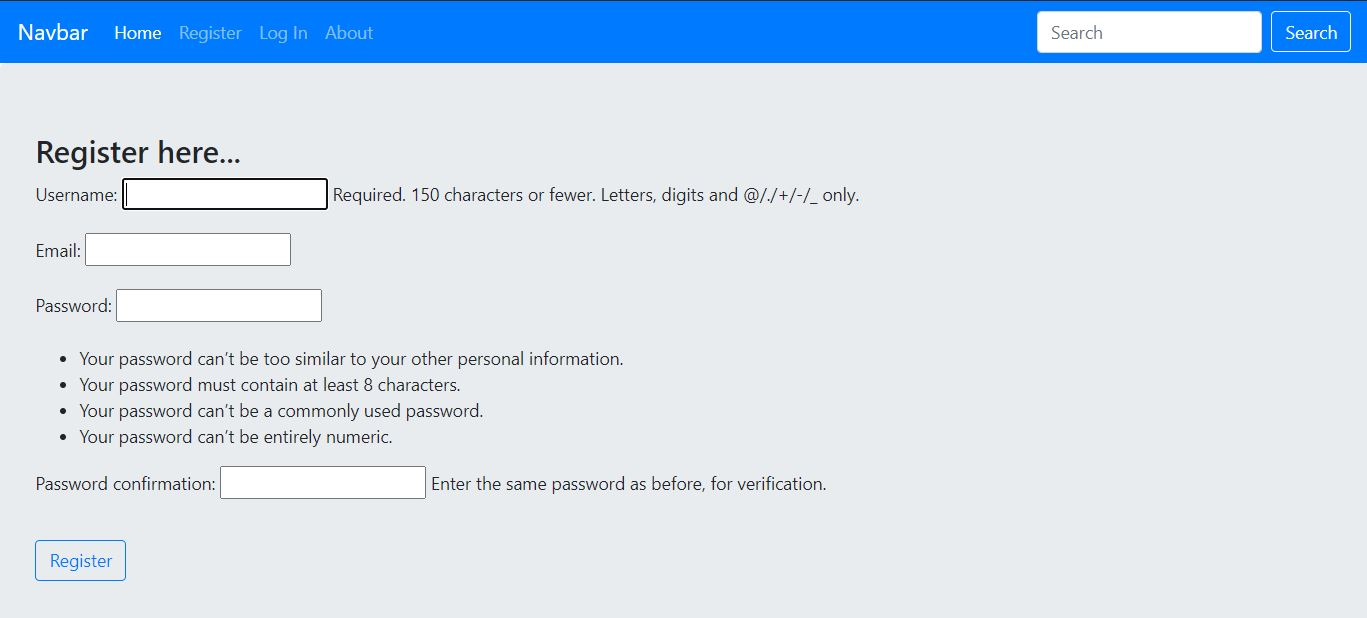
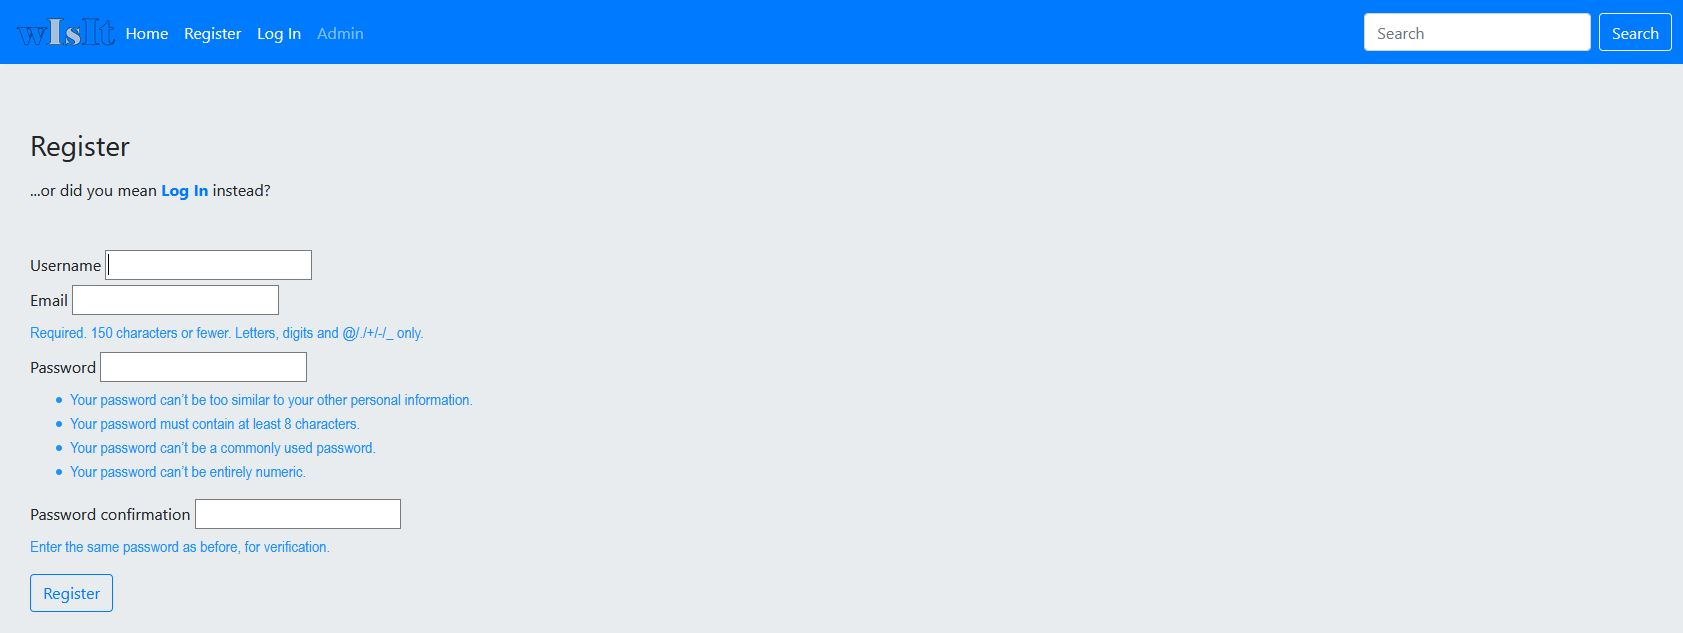
Updated Screenshots. Added some styling to templates.

diff --git a/whereisit_app/templates/whereisit_app/register.html b/whereisit_app/templates/whereisit_app/register.html
@@ -1,6 +1,8 @@
 {% extends "whereisit_app/base.html" %}
 {% block content %}
-    <h3 class="mb-3">Register here</h3>
+    <h3 class="mb-3">Register</h3>
+
+    <p class="mb-5">...or did you mean <a href="{% url 'login' %}"><strong>Log In</strong></a> instead?</p>
     <div>
         <form method="POST" action="">
             {% csrf_token %}
@@ -11,24 +13,24 @@
                         {{ form.username.errors }}
                         <label for="{{ form.username.id_for_label }}">Username</label>
                         {{ form.username }}
-                        {{ form.help_text }}
                     </div>
                     <div class="fieldWrapper">
                         {{ form.email.errors }}
                         <label for="{{ form.email.id_for_label }}">Email</label>
                         {{ form.email }}
+                        <div class="text-blue text-arialn mb-2">Required. 150 characters or fewer. Letters, digits and @/./+/-/_ only.</div>
                     </div>
                     <div class="fieldWrapper">
                         {{ form.password1.errors }}
                         <label for="{{ form.password1.id_for_label }}">Password</label>
                         {{ form.password1 }}<br>
-                        <div class="alert alert-primary">{{ form.password1.help_text }}</div>
+                        <div class="text-arialn text-blue">{{ form.password1.help_text }}</div>
                     </div>
                     <div>
                         {{ form.password2.errors }}
                         <label for="{{ form.password2.id_for_label }}">Password confirmation</label>
                         {{ form.password2 }}<br>
-                        <div class="alert alert-primary message-blue">{{ form.password2.help_text }}</div>
+                        <div class="text-arialn text-blue">{{ form.password2.help_text }}</div>
                     </div>
                 </fieldset>
             <button type="submit" class="btn btn-outline-primary">Register</button>

diff --git a/whereisit_app/templates/whereisit_app/profile.html b/whereisit_app/templates/whereisit_app/profile.html
@@ -1,19 +1,34 @@
 {% extends "whereisit_app/base.html" %}
 {% block content %}
-    <h4>Your profile</h4>
+    <h3>Your profile</h3>
 
     <div>
         <img class="rounded-circle account-img" width="128" height="128" src="{{ user.profile.image.url }}">
-        <h3>{{ user.username }}</h3>
-        <p>{{ user.email }}</p>
+        <div>Current Username:
+            <div class="text-blue">{{ user.username }}</div>
+        </div>
+        <div>Current Email: <div class="text-blue">{{ user.email }}</div>
+        </div>
     </div>
-
+    <h5 class="alert alert-info mt-5">Edit your information:</h5>
     <form method="POST" enctype="multipart/form-data">
         {% csrf_token %}
-        <h3>Profile info</h3>
+
         <fieldset class="form-group">
-            {{ u_form.as_p }}
-            {{ p_form.as_p }}
+{#            {{ u_form.as_p }}#}
+            {{ u_form.non_field_errors }}
+            <div class="fieldWrapper">
+                <label for="{{ u_form.username.id_for_label }}">Username</label>
+                {{ u_form.username }}<br>
+
+                <div class="text-blue text-arialn">{{ u_form.username.help_text }}</div>
+            </div>
+
+            <div class="mt-4">
+                {{ p_form.as_p }}
+            </div>
+
+
         </fieldset>
         <button type="submit" class="btn btn-outline-primary">Update</button>
     </form>

diff --git a/whereisit_app/templates/whereisit_app/item_form.html b/whereisit_app/templates/whereisit_app/item_form.html
@@ -1,11 +1,26 @@
 {% extends 'whereisit_app/base.html' %}
 {% block content %}
 
-    <h3>Adding new item:</h3>
+    <h3 class="mb-3">Adding new item</h3>
+    <p class="mb-4">Here you can add all the info about your Item.</p>
     <form method="POST" enctype="multipart/form-data">
         {% csrf_token %}
-            {{ form.as_p }}
-        <button type="submit" class="btn btn-info">Save</button>
+
+        {#            {{ form.as_p }}#}
+        <fieldset class="form-group">
+            <div>
+                {% for field in form %}
+                    <div class="fieldWrapper">
+                        <div>{{ field.errors }}</div>
+                        <div class="mb-0">{{ field.label_tag }}</div>
+                        <div class="mt-0">{{ field }}</div>
+                        <p class="text-blue text-arialn">{{ field.help_text }}</p>
+                    </div>
+                {% endfor %}
+            </div>
+        </fieldset>
+
+        <button type="submit" class="btn btn-outline-primary">Save</button>
     </form>
 
 {% endblock %}

diff --git a/whereisit_app/templates/whereisit_app/login.html b/whereisit_app/templates/whereisit_app/login.html
@@ -1,11 +1,14 @@
 {% extends "whereisit_app/base.html" %}
 {% block content %}
-    <h3>Log In here</h3>
+    <h3 class="mb-3">Log In</h3>
+    <p class="mb-5">Welcome, if you don`t have an account, go to
+        <a  class="text-blue" href="{% url 'register' %}"><strong>Register</strong></a> :)</p>
+
     <form method="POST">
         {% csrf_token %}
         <fieldset class="form-group">
             {{ form.as_p }}
         </fieldset>
-        <button type="submit" class="btn btn-outline-secondary">Log In</button>
+        <button type="submit" class="btn btn-outline-primary">Log In</button>
     </form>
 {% endblock %}

diff --git a/whereisit_app/templates/whereisit_app/item_confirm_delete.html b/whereisit_app/templates/whereisit_app/item_confirm_delete.html
@@ -3,7 +3,8 @@
     <form method="POST">
         {% csrf_token %}
         <fieldset>
-            <h4>Make sure you want to permanently delete an item <strong>{{ object.name }}</strong></h4>
+            <h4>Are you sure you want to permanently delete an item<br>
+                <div class="text-blue mt-3 mb-5"><strong>{{ object.name }}?</strong></div></h4>
         </fieldset>
         <button type="submit" class="btn btn-outline-danger">Delete</button>
         <a href="{% url 'home' %}" class="btn btn-outline-secondary">Cancel</a>

diff --git a/whereisit_app/templates/whereisit_app/home.html b/whereisit_app/templates/whereisit_app/home.html
@@ -7,7 +7,7 @@
         Click on it's <i>name</i> to see more details or to <strong>Edit</strong> your item.<br>
         Only users from the same group can see same items.</p>
 
-    <p>After opening the app for the first time, go to 'register' - it will create some basic data for database to start with.</p>
+    <p class="text-arialn text-blue">* After opening the app for the first time, go to 'register' - it will create some basic data for database to start with. *</p>
 
     {% if user.is_authenticated %}
         <br>

diff --git a/whereisit_app/templates/whereisit_app/item_detail.html b/whereisit_app/templates/whereisit_app/item_detail.html
@@ -53,7 +53,7 @@
         </a>
     </p>
 
-    <h4>This is the location of your item:</h4>
+    <h4 class="mt-3 mb-3">This is the usual location of your item:</h4>
     <div id="container">
         <img src="/media/m_plan.jpg" id="" alt="map_image" />
         <img src="/media/m_dot.png" id="imgdot" alt="dot_image"

diff --git a/whereisit_app/static/whereisit_app/main.css b/whereisit_app/static/whereisit_app/main.css
@@ -5,4 +5,10 @@
 #imgdot {
     position: absolute;
 }
+.text-arialn {
+    font-family: "Arial Narrow";
+}
 
+.text-blue {
+    color: dodgerblue;
+}

diff --git a/whereisit_app/views.py b/whereisit_app/views.py
@@ -11,8 +11,7 @@ from .basic_setup import basic_setup
 
 
 def home(request):
-    title = "Home"
-    return render(request, 'whereisit_app/home.html', {'title': title})
+    return render(request, 'whereisit_app/home.html')
 
 
 def register(request):
@@ -39,11 +38,10 @@ def register(request):
 
 @login_required
 def profile(request):
-    title = 'Your Profile.'
     if request.method == 'GET':
         u_form = UserUpdateForm(instance=request.user)
         p_form = ProfileUpdateForm(instance=request.user.profile)
-        return render(request, 'whereisit_app/profile.html', {'title': title, 'u_form': u_form, 'p_form': p_form})
+        return render(request, 'whereisit_app/profile.html', {'u_form': u_form, 'p_form': p_form})
     else:
         u_form = UserUpdateForm(request.POST, instance=request.user)
         p_form = ProfileUpdateForm(request.POST, request.FILES, instance=request.user.profile)
@@ -99,8 +97,7 @@ class ItemDeleteView(LoginRequiredMixin, DeleteView):
 
 
 def map_location(request):
-    title = 'Map'
-    return render(request, 'whereisit_app/map.html', {'title': title})
+    return render(request, 'whereisit_app/map.html')
 
 
 @login_required
